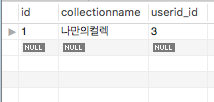
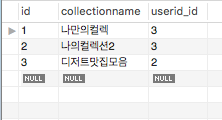
added 11.16, 11.17

diff --git a/user/views.py b/user/views.py
@@ -134,15 +134,30 @@ def addFollow(request):
 # 개인 컬렉션 리스트 불러오기
 @csrf_exempt
 def callCollection(request):
-    if request.method == "POST":
-        return HttpResponse(json.dumps({'result': 'testok'}))
+    if request.method == "GET":
+        listCollection =[]
+        userMail = request.GET.get('userMail')
+
+        user = User.objects.get(mail=userMail)
+        userId = user.id
+
+        collection_set = CollectionList.objects.filter(userid_id=userId)
+
+        for collection in collection_set:
+            listCollection.append(collection.collectionname)
+
+        return HttpResponse(json.dumps({'result': listCollection }))
 
 
 # 개인 컬렉션 리스트 삭제하기
+# 해당 컬렉션 고유 id를 받아서 컬렉션 리스트 삭제
 @csrf_exempt
 def deleteCollection(request):
     if request.method == "POST":
-        return HttpResponse(json.dumps({'result': 'testok'}))
+        collectionId = request.POST.get('collectionId')
+        del_col = CollectionList.objects.filter(id = collectionId)
+        del_col.delete()
+        return HttpResponse(json.dumps({'result': 'delete_collection'}))
 
 
 # 개인 컬렉션 리스트 생성하기
@@ -163,11 +178,14 @@ def createCollection(request):
 
         return HttpResponse(json.dumps({'result': 'create_collection'}))
 
-# 컬렉션 내 가게리스트 불러오기
+
+
+
+# 컬렉션 리스트 내 가게 리스트 불러오기
 @csrf_exempt
 def callCollectionList(request):
-    if request.method == "POST":
-        return HttpResponse(json.dumps({'result': 'testok'}))
+    if request.method == "GET":
+        return HttpResponse(json.dumps({'result': listCollection }))
 
 # 컬렉션 내 가게리스트 가게 추가하기
 @csrf_exempt
@@ -175,11 +193,13 @@ def addCollectionList(request):
     if request.method == "POST":
         return HttpResponse(json.dumps({'result': 'testok'}))
 
-# 개인 컬렉션 리스트 생성하기
+# 개인 컬렉션 리스트 삭제하기
 @csrf_exempt
 def deleteCollectionList(request):
     if request.method == "POST":
         return HttpResponse(json.dumps({'result': 'testok'}))
+
+
 
 
 

diff --git a/store/views.py b/store/views.py
@@ -209,8 +209,6 @@ def selectRegion(request):
         return HttpResponse(json.dumps({'result': listStore}))
 
 
-
-
 # 리뷰 삭제하기
 @csrf_exempt
 def deleteComment(request):

diff --git a/README.md b/README.md
@@ -162,11 +162,18 @@
 > - 로그인 성공시 signin_req와 accesstoken 동시에 부여
 > > ![스크린샷](./screenshots/2018-11-05.png)
 
-
 ### 2018.11.12
 > - 소셜 파트 - 개인 컬렉션 리스트 생성하기 완료
 > > ![스크린샷](./screenshots/2018-11-12.png)
 
+### 2018.11.16
+> - 소셜 파트 - 개인 컬렉션 리스트 불러오기 완료
+> > ![스크린샷](./screenshots/2018-11-16.png)
+
+### 2018.11.17
+> - 소셜파트 - 개인 컬렉션 리스트 삭제하기 완료
+> > ![스크린샷](./screenshots/2018-11-17.png)
+> > ![스크린샷](./screenshots/2018-11-17-2.png)
 
 -----------------
 
